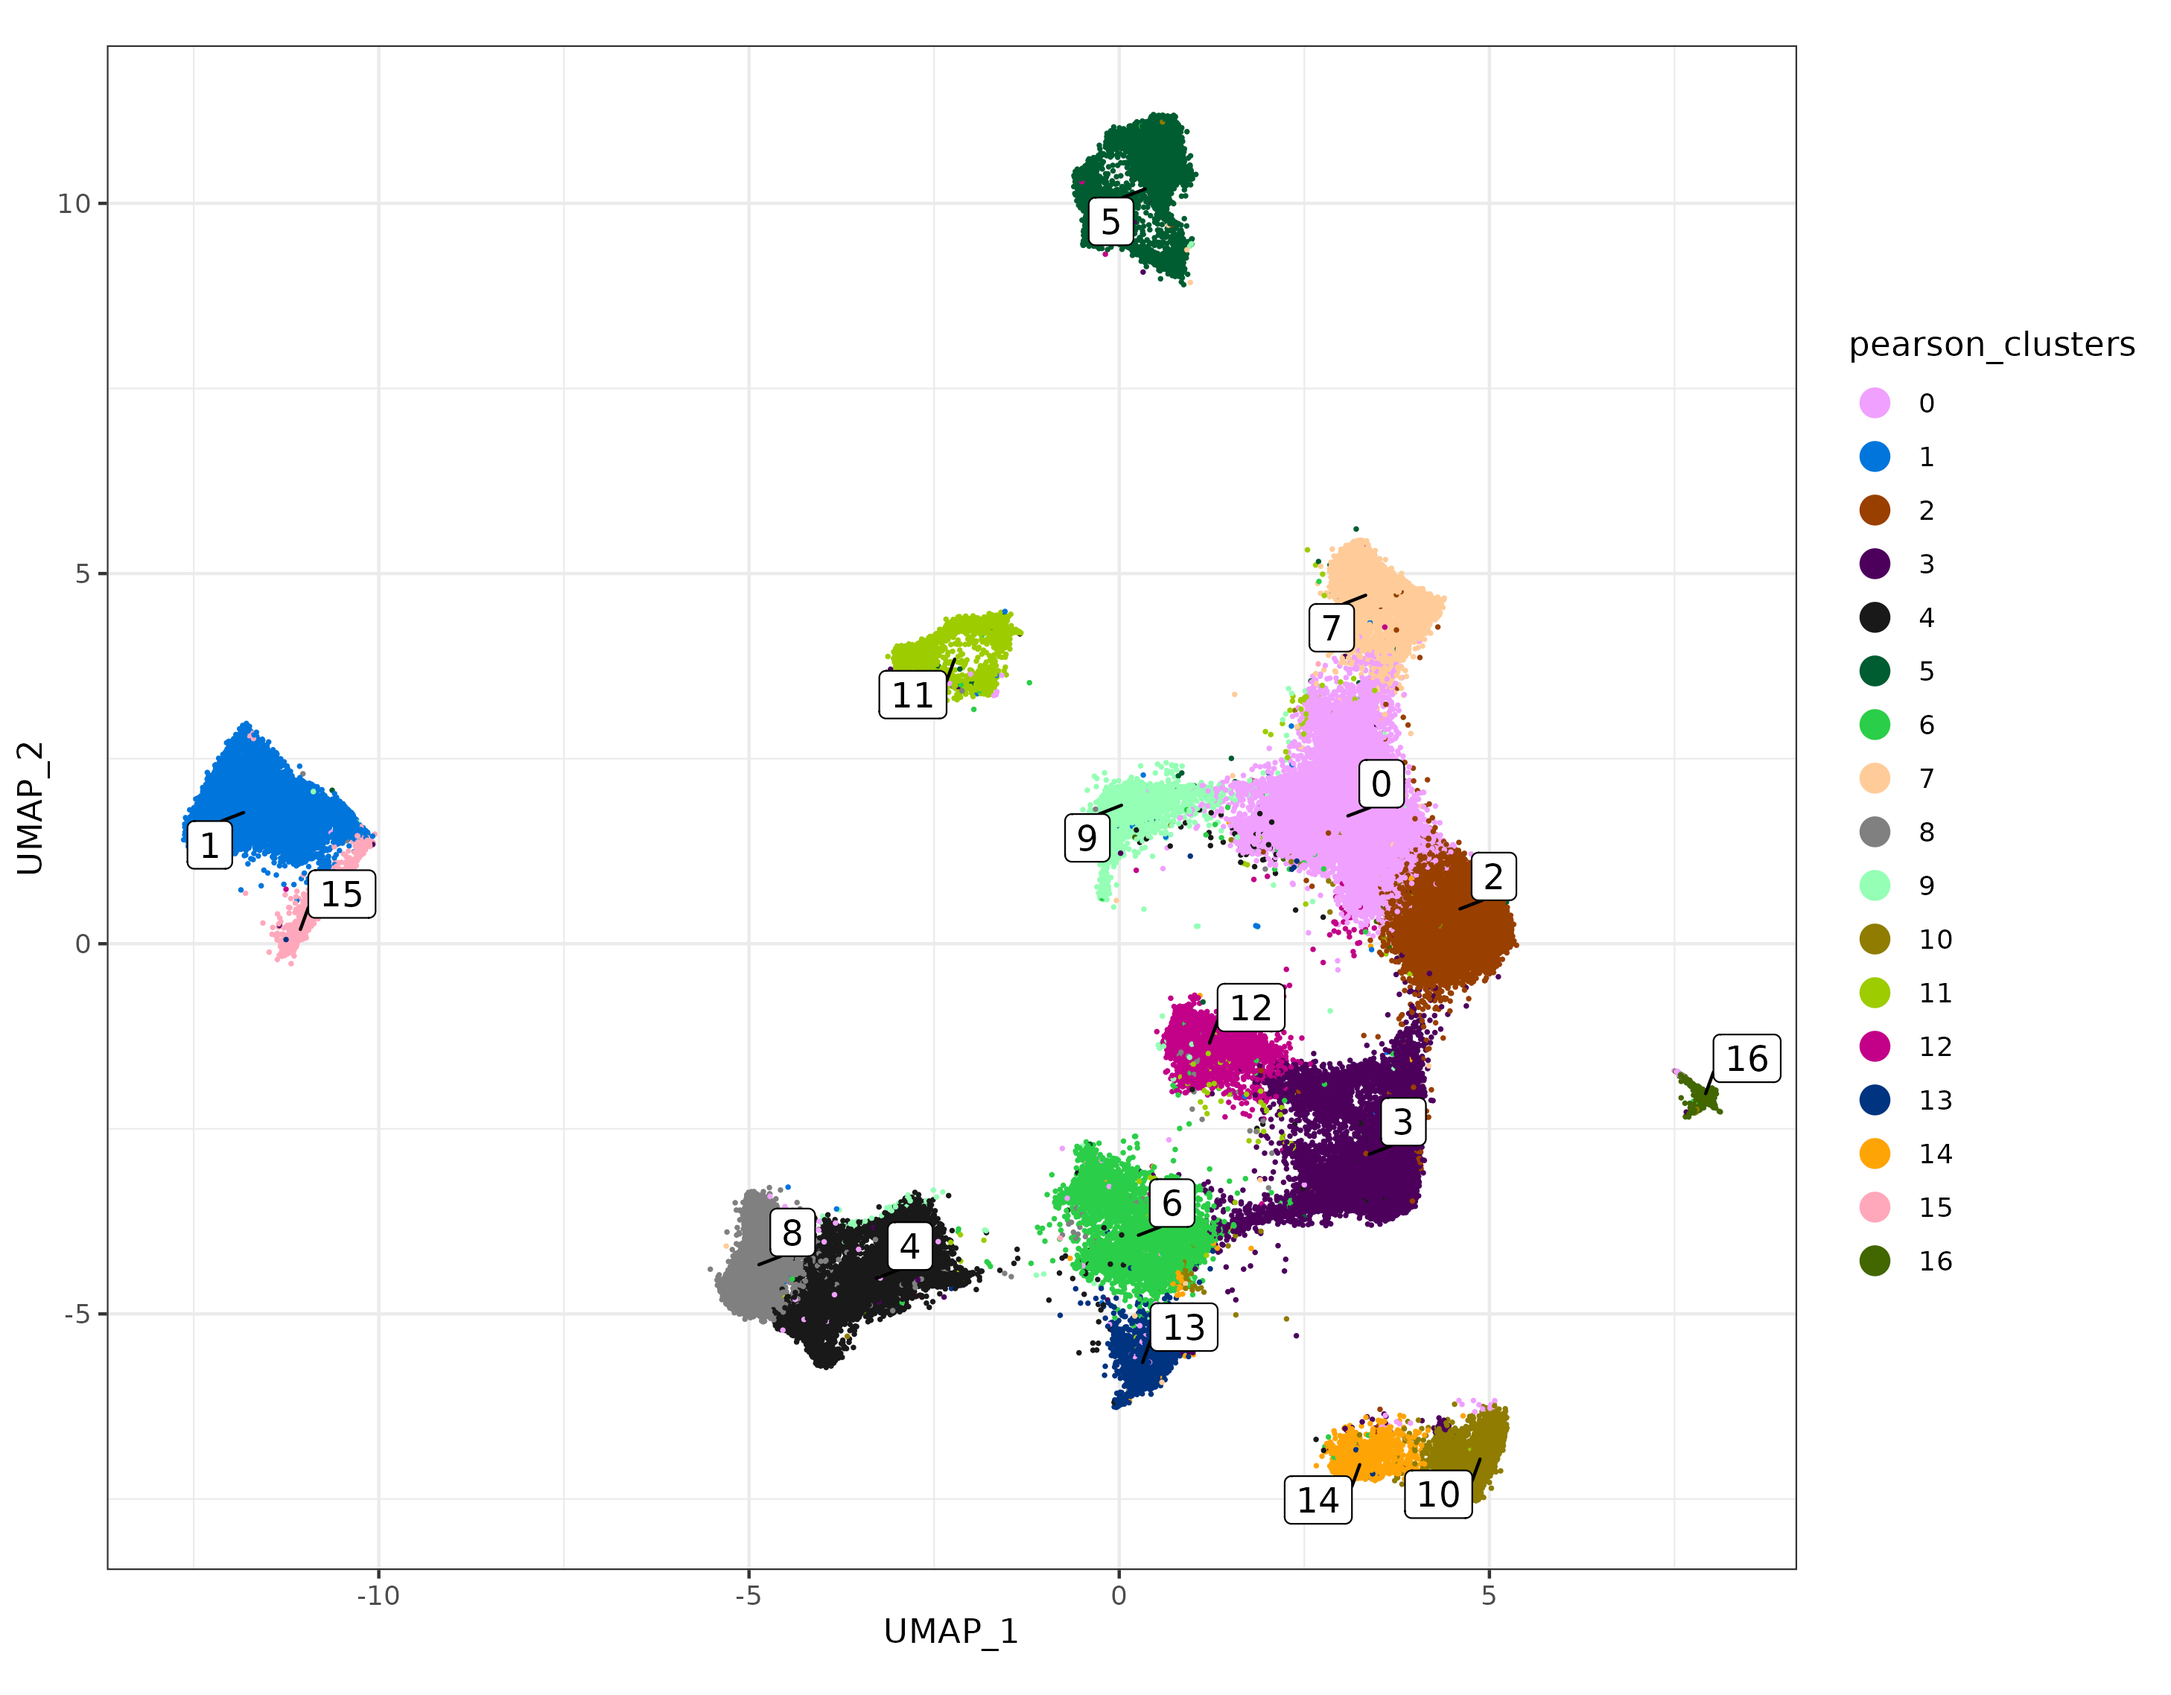
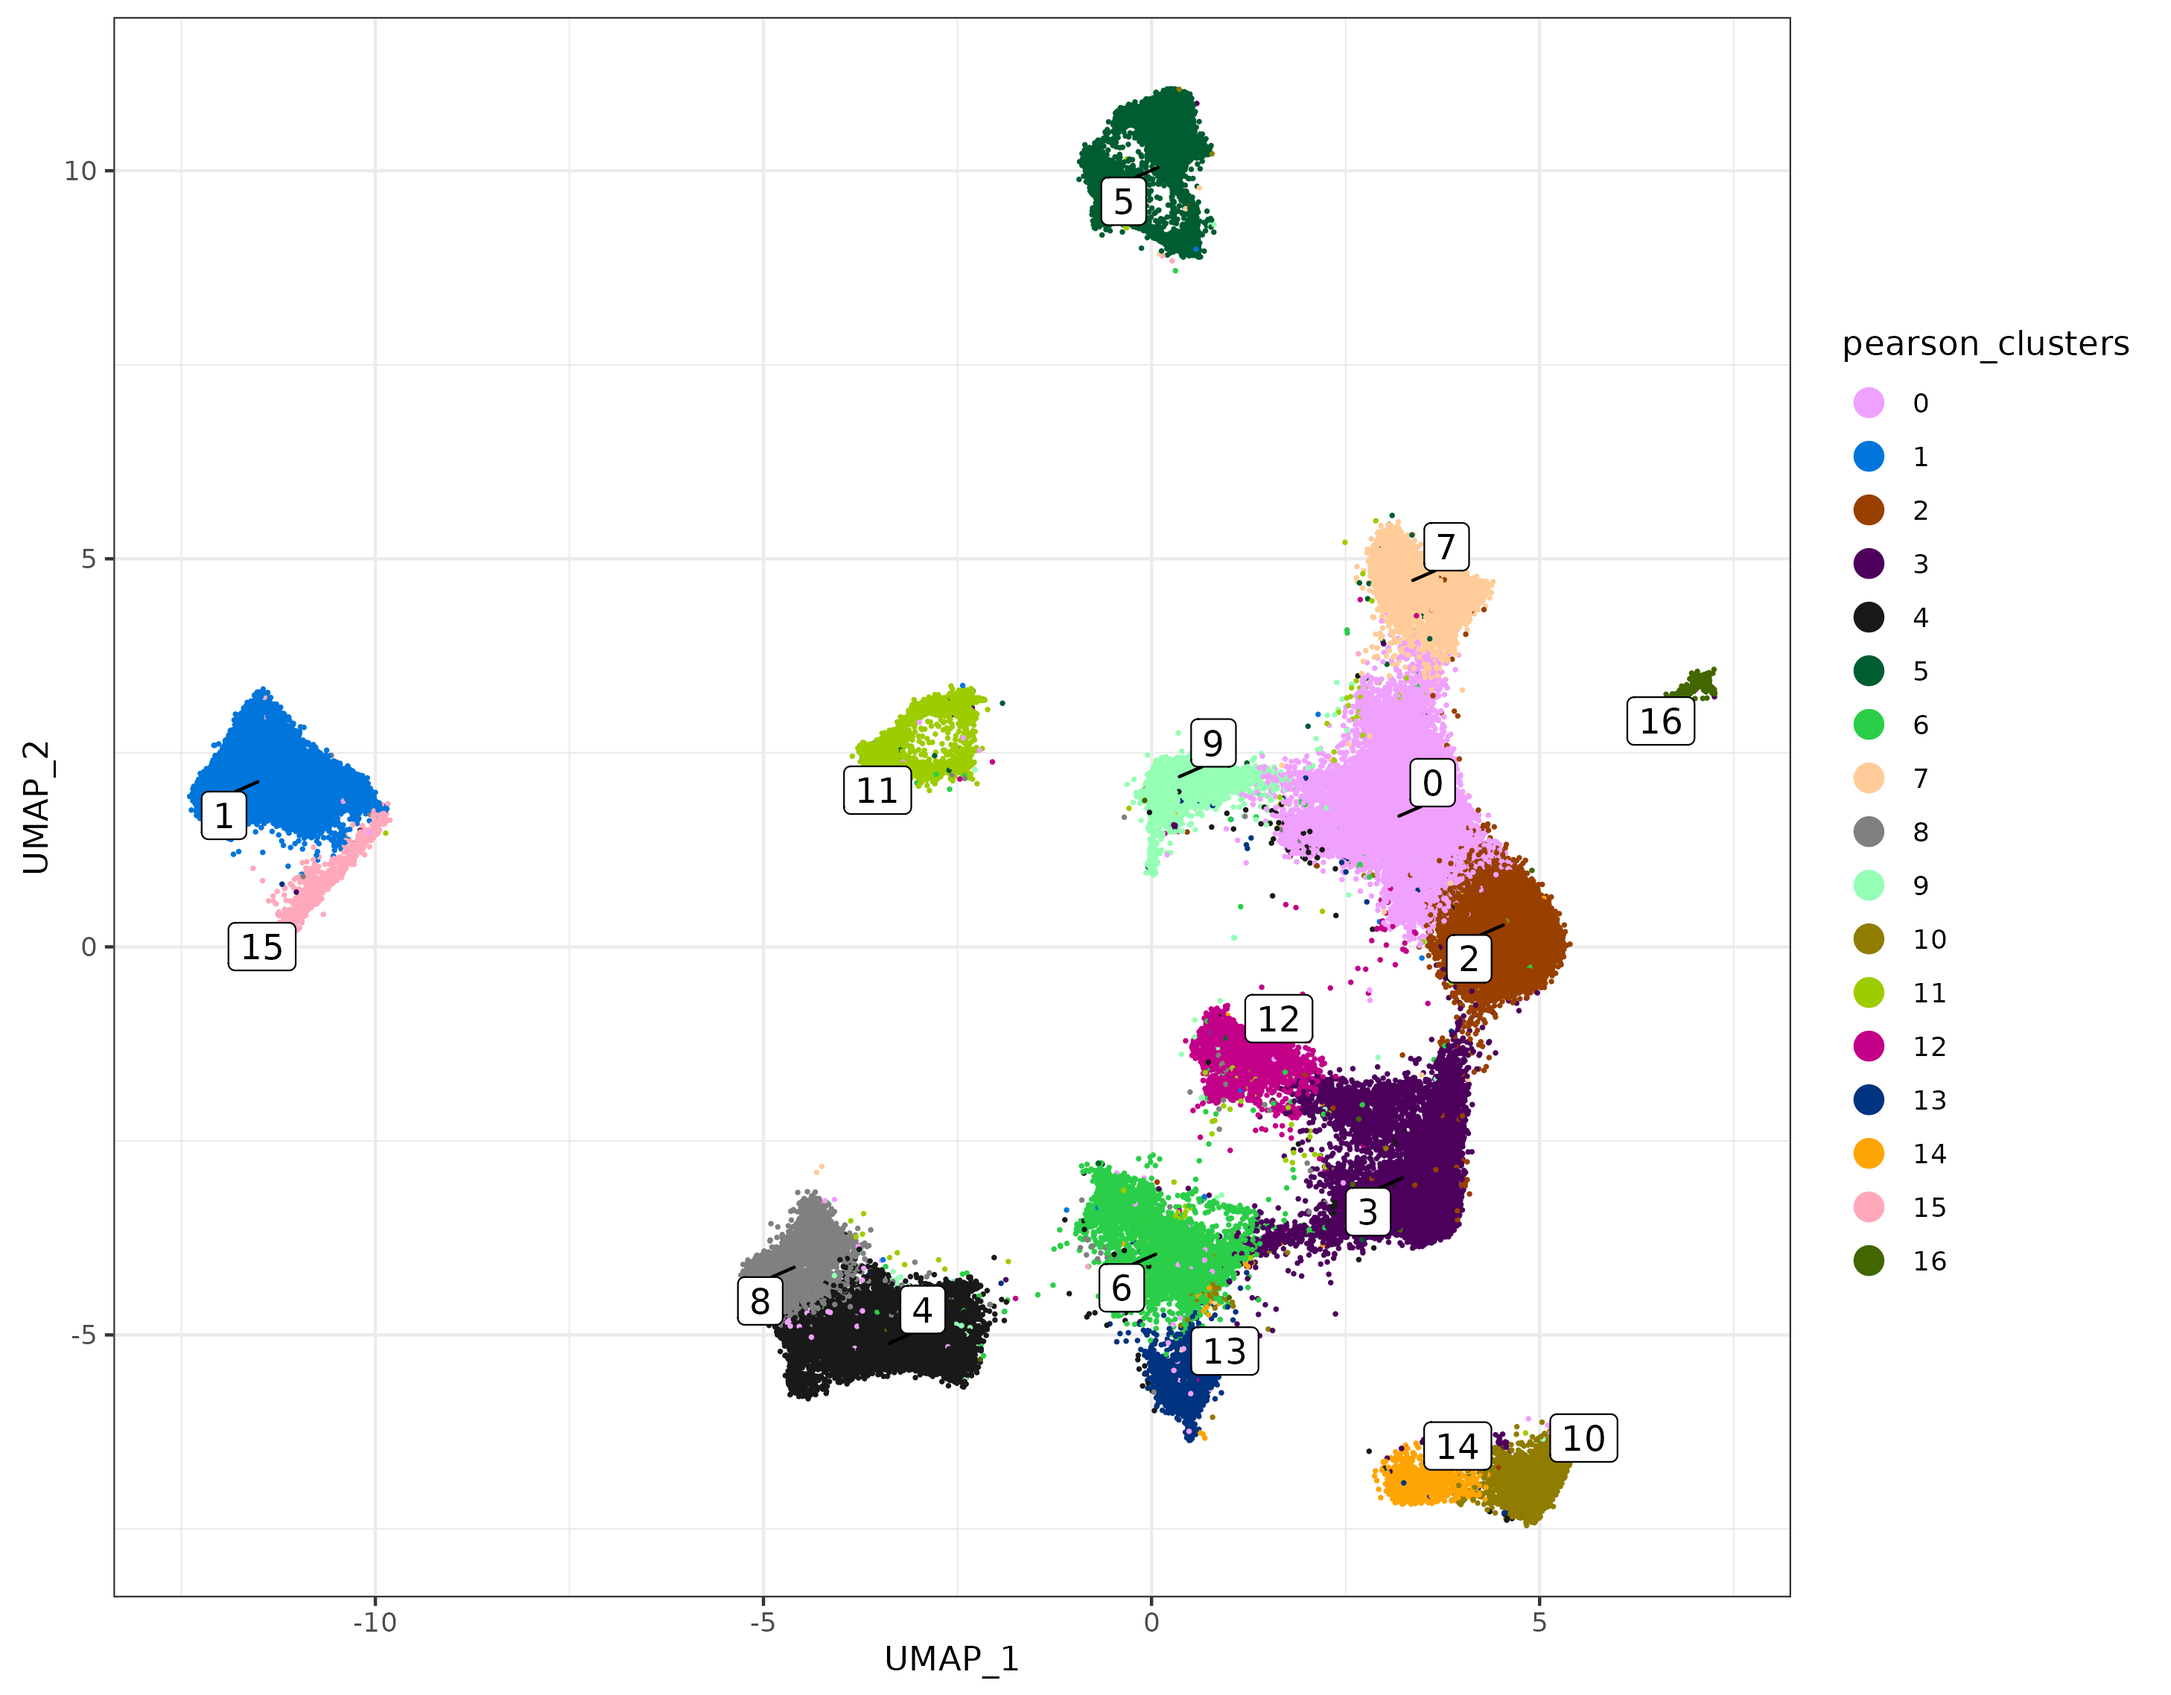
Squashed '_code/scPearsonPCA/' changes from eb1ee89..decfedd
decfedd cleaning up project function, needs a few extra args
996dff4 accommodate phi to vary by gene when estimated from the data
4f973e6 rerun with grammar edit
977a203 grammar edits
1aacbb5 functions to check inputs
867cbbd input checks for matrix class, totalcounts, and grate
e8e7911 add checks for matrix class, input argument checks
8966a01 update documentation for gene_frequency()
a1b3e0a replace PC's with PCs in last figure title
c120fd3 replace PC's with PCs (in both text and last figure title), remove period from title
954ad8a edit to harmony sentence

git-subtree-dir: _code/scPearsonPCA
git-subtree-split: decfeddfd30ce2344c8e014096272468af173770

diff --git a/README.md b/README.md
@@ -1,5 +1,5 @@
 
-# scPearsonPCA: An R package for efficient Principal Components decomposition of pearson residual normalized single cell data.
+# scPearsonPCA: An R package for efficient Principal Components decomposition of pearson residual normalized single cell data
 
 ## Introduction
 
@@ -13,8 +13,8 @@ However, the principal component (PC) decomposition of quasi-poisson
 pearson residuals can be computed directly from a sparse counts matrix
 and a few easy-to-calculate summary statistics. The R package
 [scPearsonPCA](https://github.com/Nanostring-Biostats/CosMx-Analysis-Scratch-Space/tree/Main/_code/scPearsonPCA)
-enables this PC decomposition, including the returning the PC’s as if
-the normalized data had been centered, scaled, and influential values
+enables this PC decomposition, including the returning the PCs as if the
+normalized data had been centered, scaled, and influential values
 clipped according to common best practices for PC analysis.
 
 In this post we demonstrate a few quick examples for the package, as
@@ -69,7 +69,7 @@ We typically recommend to use up to 2,000-3,000 highly variable genes
 for generating PCA results.
 
 A few summary stats used as input for calculating pearson-normalized
-PC’s:
+PCs:
 
 - `tc` is the total counts per cell across all genes.
 - `genefreq` is the proportion of transcript calls for each gene across
@@ -91,9 +91,9 @@ pcaobj <-
 sparse_quasipoisson_pca_seurat(sem[["RNA"]]@counts[hvgs,]
                                ,totalcounts = tc
                                ,grate = genefreq[hvgs]
-                               ,scale.max = 10 ## PC's reflect clipping pearson residuals > 10 SDs above the mean pearson residual
-                               ,do.scale = TRUE ## PC's reflect as if pearson residuals for each gene were scaled to have standard deviation=1
-                               ,do.center = TRUE ## PC's reflect as if pearson residuals for each gene were centered to have mean=0
+                               ,scale.max = 10 ## PCs reflect clipping pearson residuals > 10 SDs above the mean pearson residual
+                               ,do.scale = TRUE ## PCs reflect as if pearson residuals for each gene were scaled to have standard deviation=1
+                               ,do.center = TRUE ## PCs reflect as if pearson residuals for each gene were centered to have mean=0
                                )
 ```
 
@@ -179,7 +179,7 @@ space.
 In case of known batch effects, multiple methods of correction may be
 considered, and best performing method may well vary from dataset to
 dataset. One alternative recommended method which often works well is
-‘Harmony’, described and demonstrated here in this
+‘Harmony’, described in this
 [post](https://nanostring-biostats.github.io/CosMx-Analysis-Scratch-Space/posts/batchcorrection/).
 
 ``` r
@@ -187,8 +187,8 @@ umapplot_patient_batch <- scPearsonPCA::plot_umap(umapreduc = "pearsonbatchumap"
 umapplot_patient <- scPearsonPCA::plot_umap(umapreduc = "pearsonumap", clustercol = "patient", semuse = sem,alpha=0.1)
 
 cp <- 
-cowplot::plot_grid(umapplot_patient_batch + labs(title = "UMAP using batch-corrected pearson PC's")
-                   ,umapplot_patient + labs(title = "UMAP using pearson PC's")
+cowplot::plot_grid(umapplot_patient_batch + labs(title = "UMAP using batch-corrected pearson PCs")
+                   ,umapplot_patient + labs(title = "UMAP using pearson PCs")
                    ,nrow=1) + 
   theme(plot.background = element_rect(fill = 'white',color='white')) + 
   cowplot::panel_border(remove=TRUE)  
